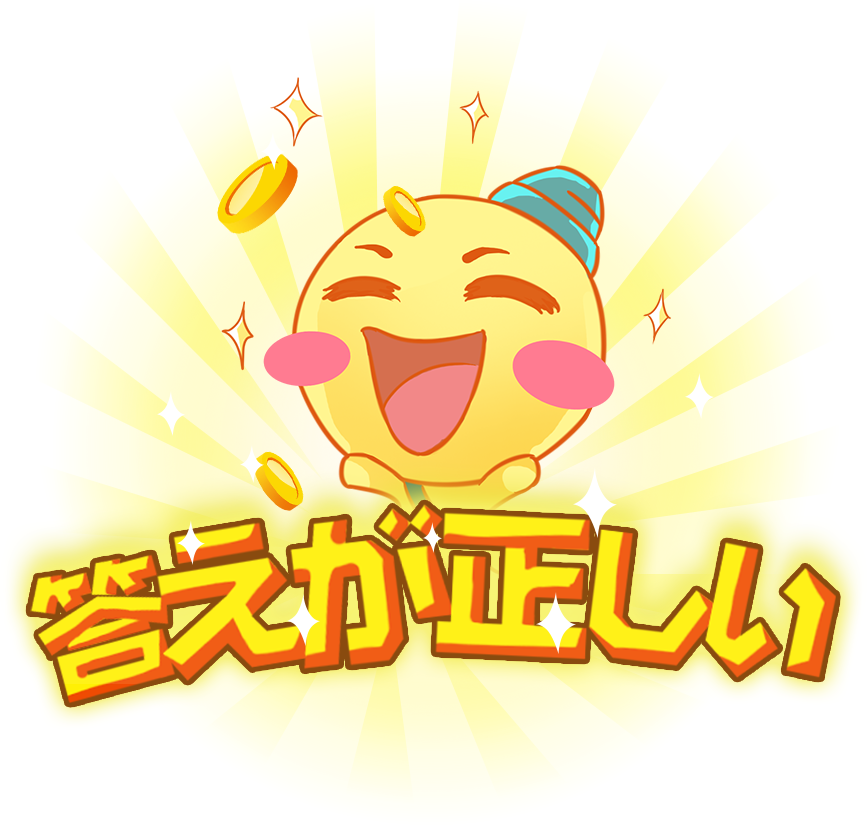
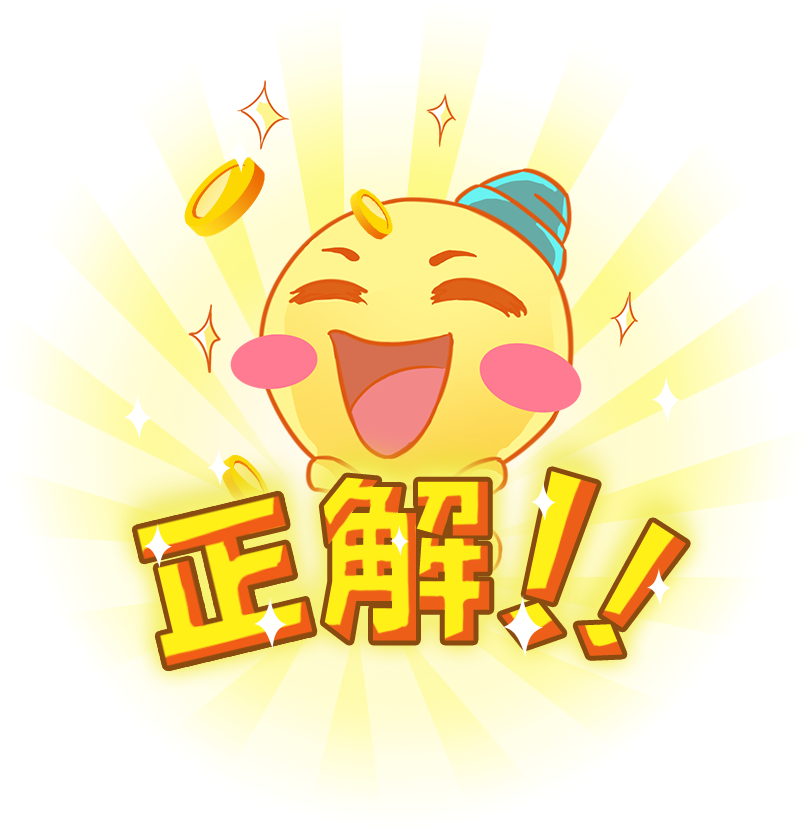
Added splash screen, audio image and answer correct image.

diff --git a/platforms/ios/www/js/app/Album.js b/platforms/ios/www/js/app/Album.js
@@ -10,7 +10,8 @@ CQ.Album = {
         Celebrity: { id: 6, name: '有名人' },
         Game: { id: 7, name: 'ゲーム' },
         Country: { id: 8, name: '国家' },
-        City: { id: 9, name: '都市' }
+        City: { id: 9, name: '都市' },
+        Sports: { id: 10, name: 'スポーツ' }
     },
 
     getAlbum: function(id) {
@@ -291,11 +292,26 @@ CQ.Album.Default = {
             level: 5,
             name: 'ステージ５',
             pictures: [
-                { id: 500, name: 'スマーフ', category: CQ.Album.Category.Cartoon, answers: [] },
-                { id: 501, name: 'カンフーパンダ', category: CQ.Album.Category.Film, answers: [] },
-                { id: 502, name: 'ライオンキング', category: CQ.Album.Category.Film, answers: [] },
-                { id: 503, name: 'ロードオブザリン', category: CQ.Album.Category.Film, answers: [] },
-                { id: 504, name: 'フェラーリ', category: CQ.Album.Category.Brand, answers: [] }
+                { id: 500, name: 'Ameba', category: CQ.Album.Category.Brand, answers: [] },
+                { id: 501, name: 'CoCo壱番屋', category: CQ.Album.Category.Brand, answers: [] },
+                { id: 502, name: 'ロッテリア', category: CQ.Album.Category.Brand, answers: [] },
+                { id: 503, name: 'モスバーガー', category: CQ.Album.Category.Brand, answers: [] },
+                { id: 504, name: 'ソフトバンク犬', category: CQ.Album.Category.Brand, answers: [] },
+                { id: 505, name: 'Wendys', category: CQ.Album.Category.Brand, answers: [] },
+                { id: 506, name: 'すき家', category: CQ.Album.Category.Brand, answers: [] },
+                { id: 507, name: 'バーミヤン', category: CQ.Album.Category.Brand, answers: [] },
+                { id: 508, name: '丸井', category: CQ.Album.Category.Brand, answers: [] },
+                { id: 509, name: 'ドラえもん', category: CQ.Album.Category.Cartoon, answers: [] },
+                { id: 510, name: 'ポケモン', category: CQ.Album.Category.Game, answers: [] },
+                { id: 511, name: 'ユベントス', category: CQ.Album.Category.Sports, answers: [] },
+                { id: 512, name: 'スカイツリー', category: CQ.Album.Category.Sports, answers: [] },
+                { id: 513, name: 'グリコ', category: CQ.Album.Category.Brand, answers: [] },
+                { id: 514, name: '相棒', category: CQ.Album.Category.Series, answers: [] },
+                { id: 515, name: '花王', category: CQ.Album.Category.Brand, answers: [] },
+                { id: 516, name: '豐臣秀吉', category: CQ.Album.Category.Celebrity, answers: [] },
+                { id: 517, name: '野口英世', category: CQ.Album.Category.Celebrity, answers: [] },
+                { id: 518, name: '金閣寺', category: CQ.Album.Category.City, answers: [] },
+                { id: 519, name: '高知县', category: CQ.Album.Category.City, answers: [] }
             ]
         },
         {

diff --git a/platforms/ios/www/css/ios.css b/platforms/ios/www/css/ios.css
@@ -192,14 +192,16 @@ p {
 
 .header-audio-on {
     display: none;
-    width: 3em;
-    height: 3em;
+    padding: .5em 0 0 0;
+    width: 2.8em;
+    height: 2.8em;
 }
 
 .header-audio-off {
     display: none;
-    width: 3em;
-    height: 3em;
+    padding: .5em 0 0 0;
+    width: 2.8em;
+    height: 2.8em;
 }
 
 .header-currency {

diff --git a/platforms/ios/www/js/app/App.js b/platforms/ios/www/js/app/App.js
@@ -44,6 +44,7 @@ CQ.App = {
         });
 
         CQ.Datastore.User.addStartTimes();
+        if (!CQ.Datastore.User.isAudioEnabled()) CQ.audio = false;
 
         // modify jQuery default settings
         $.mobile.defaultPageTransition = 'none';
